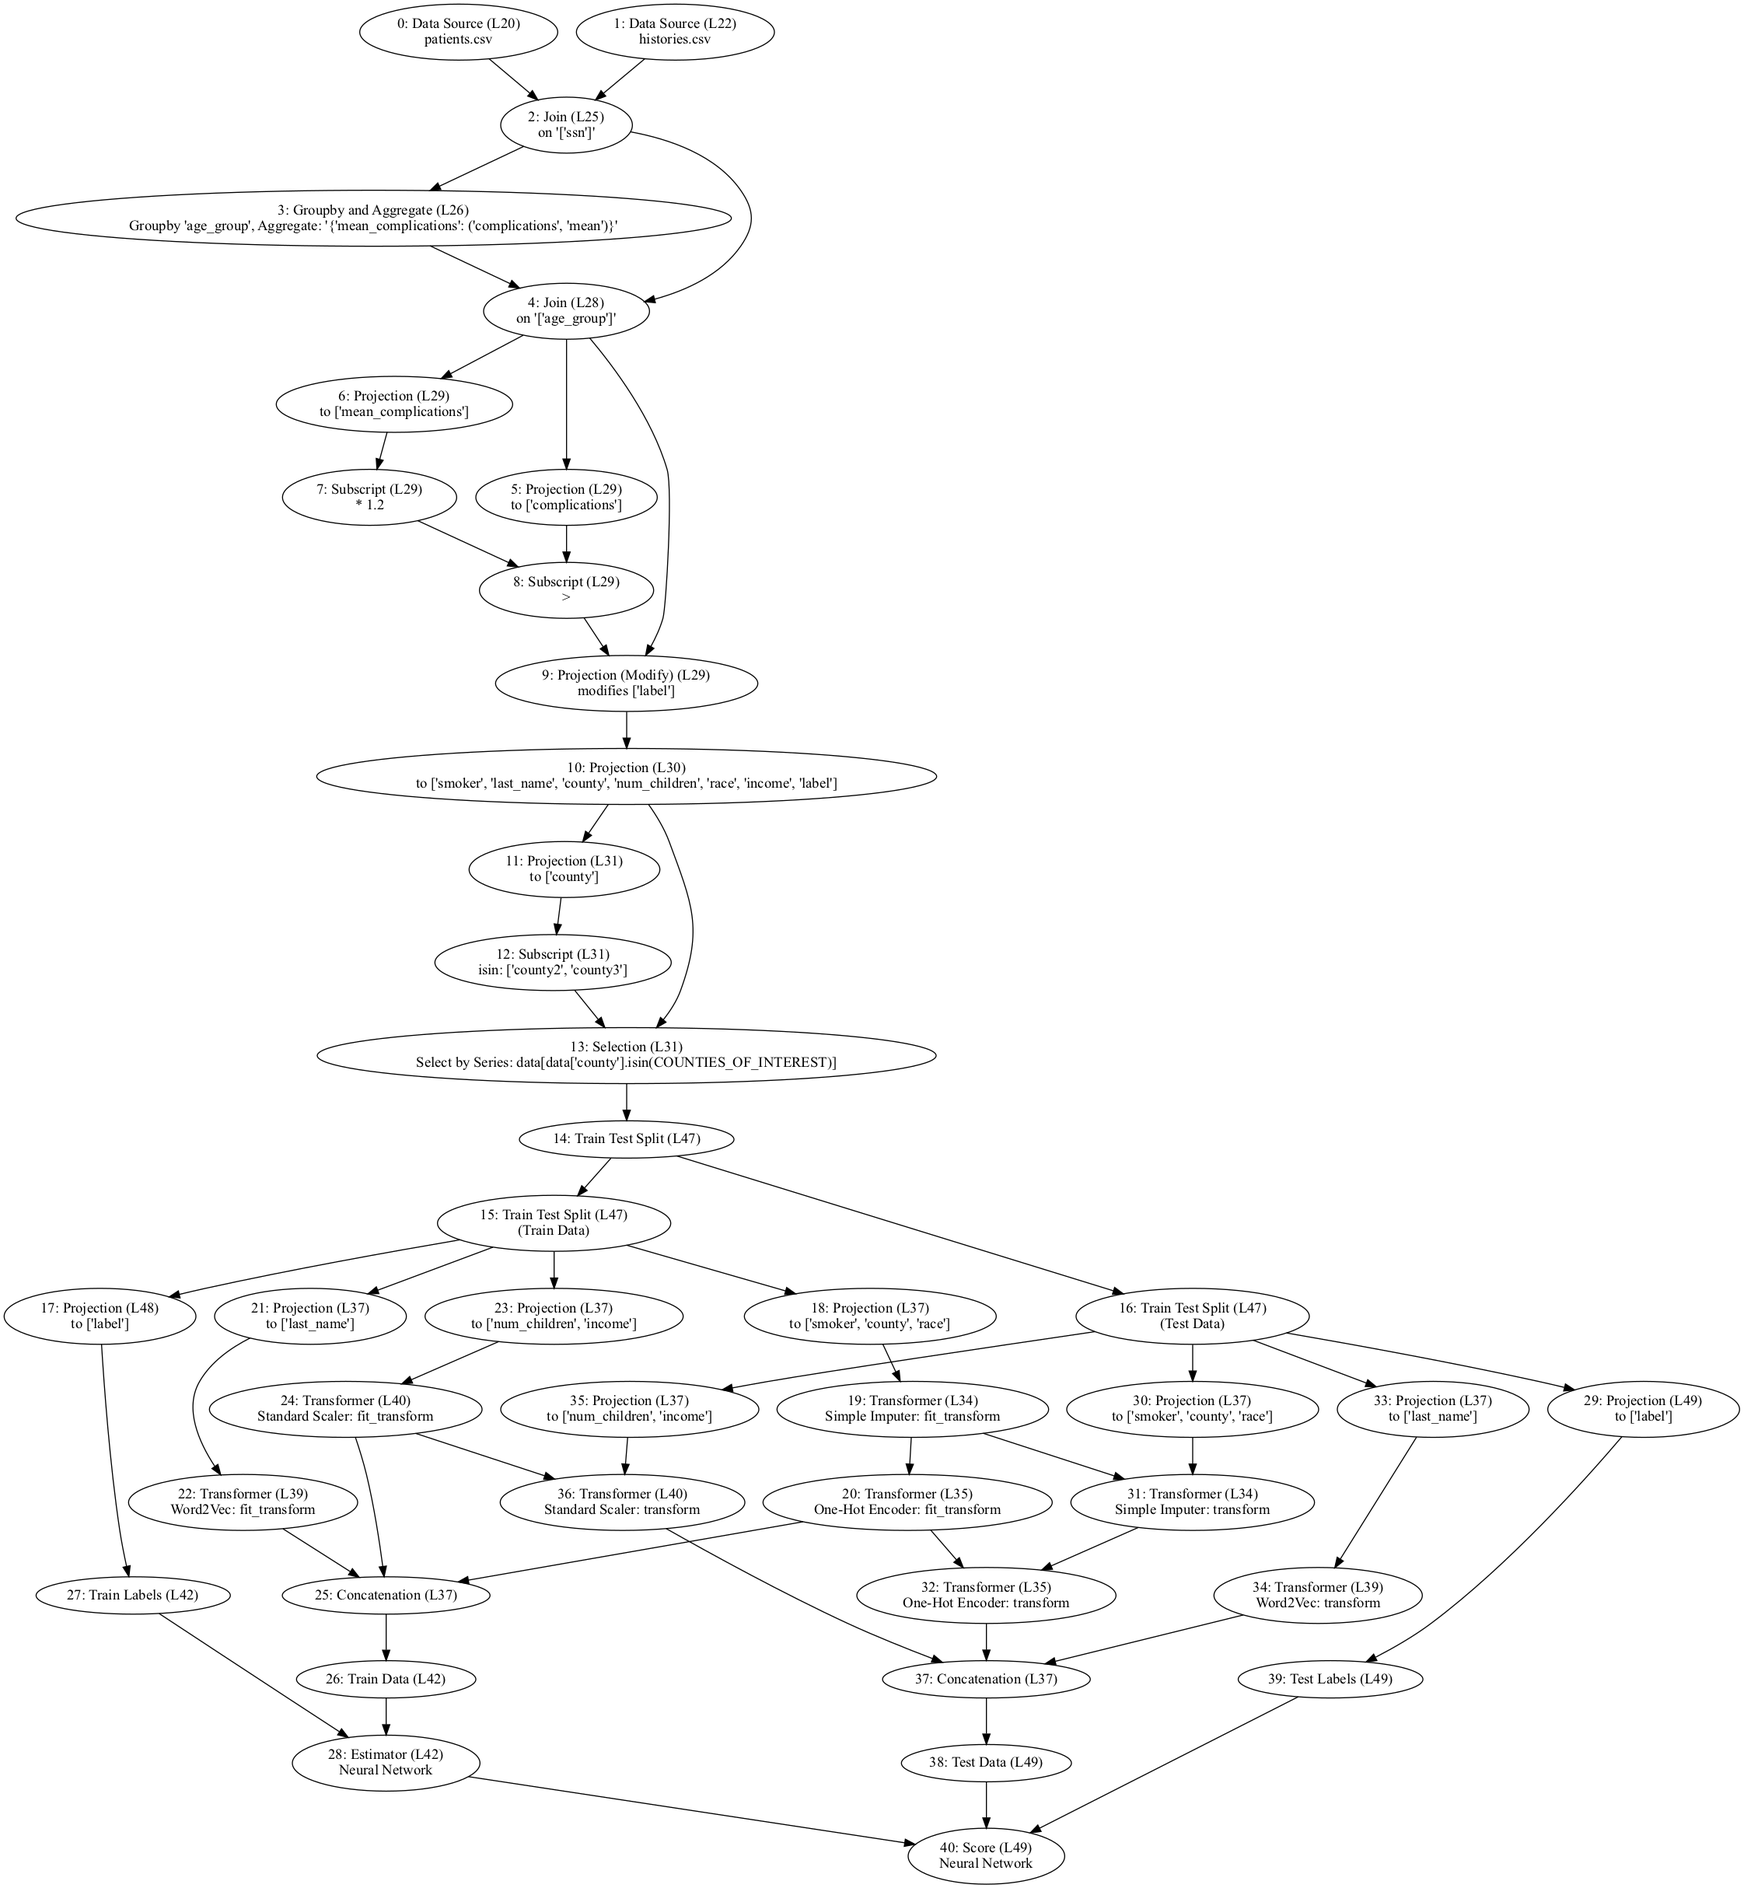
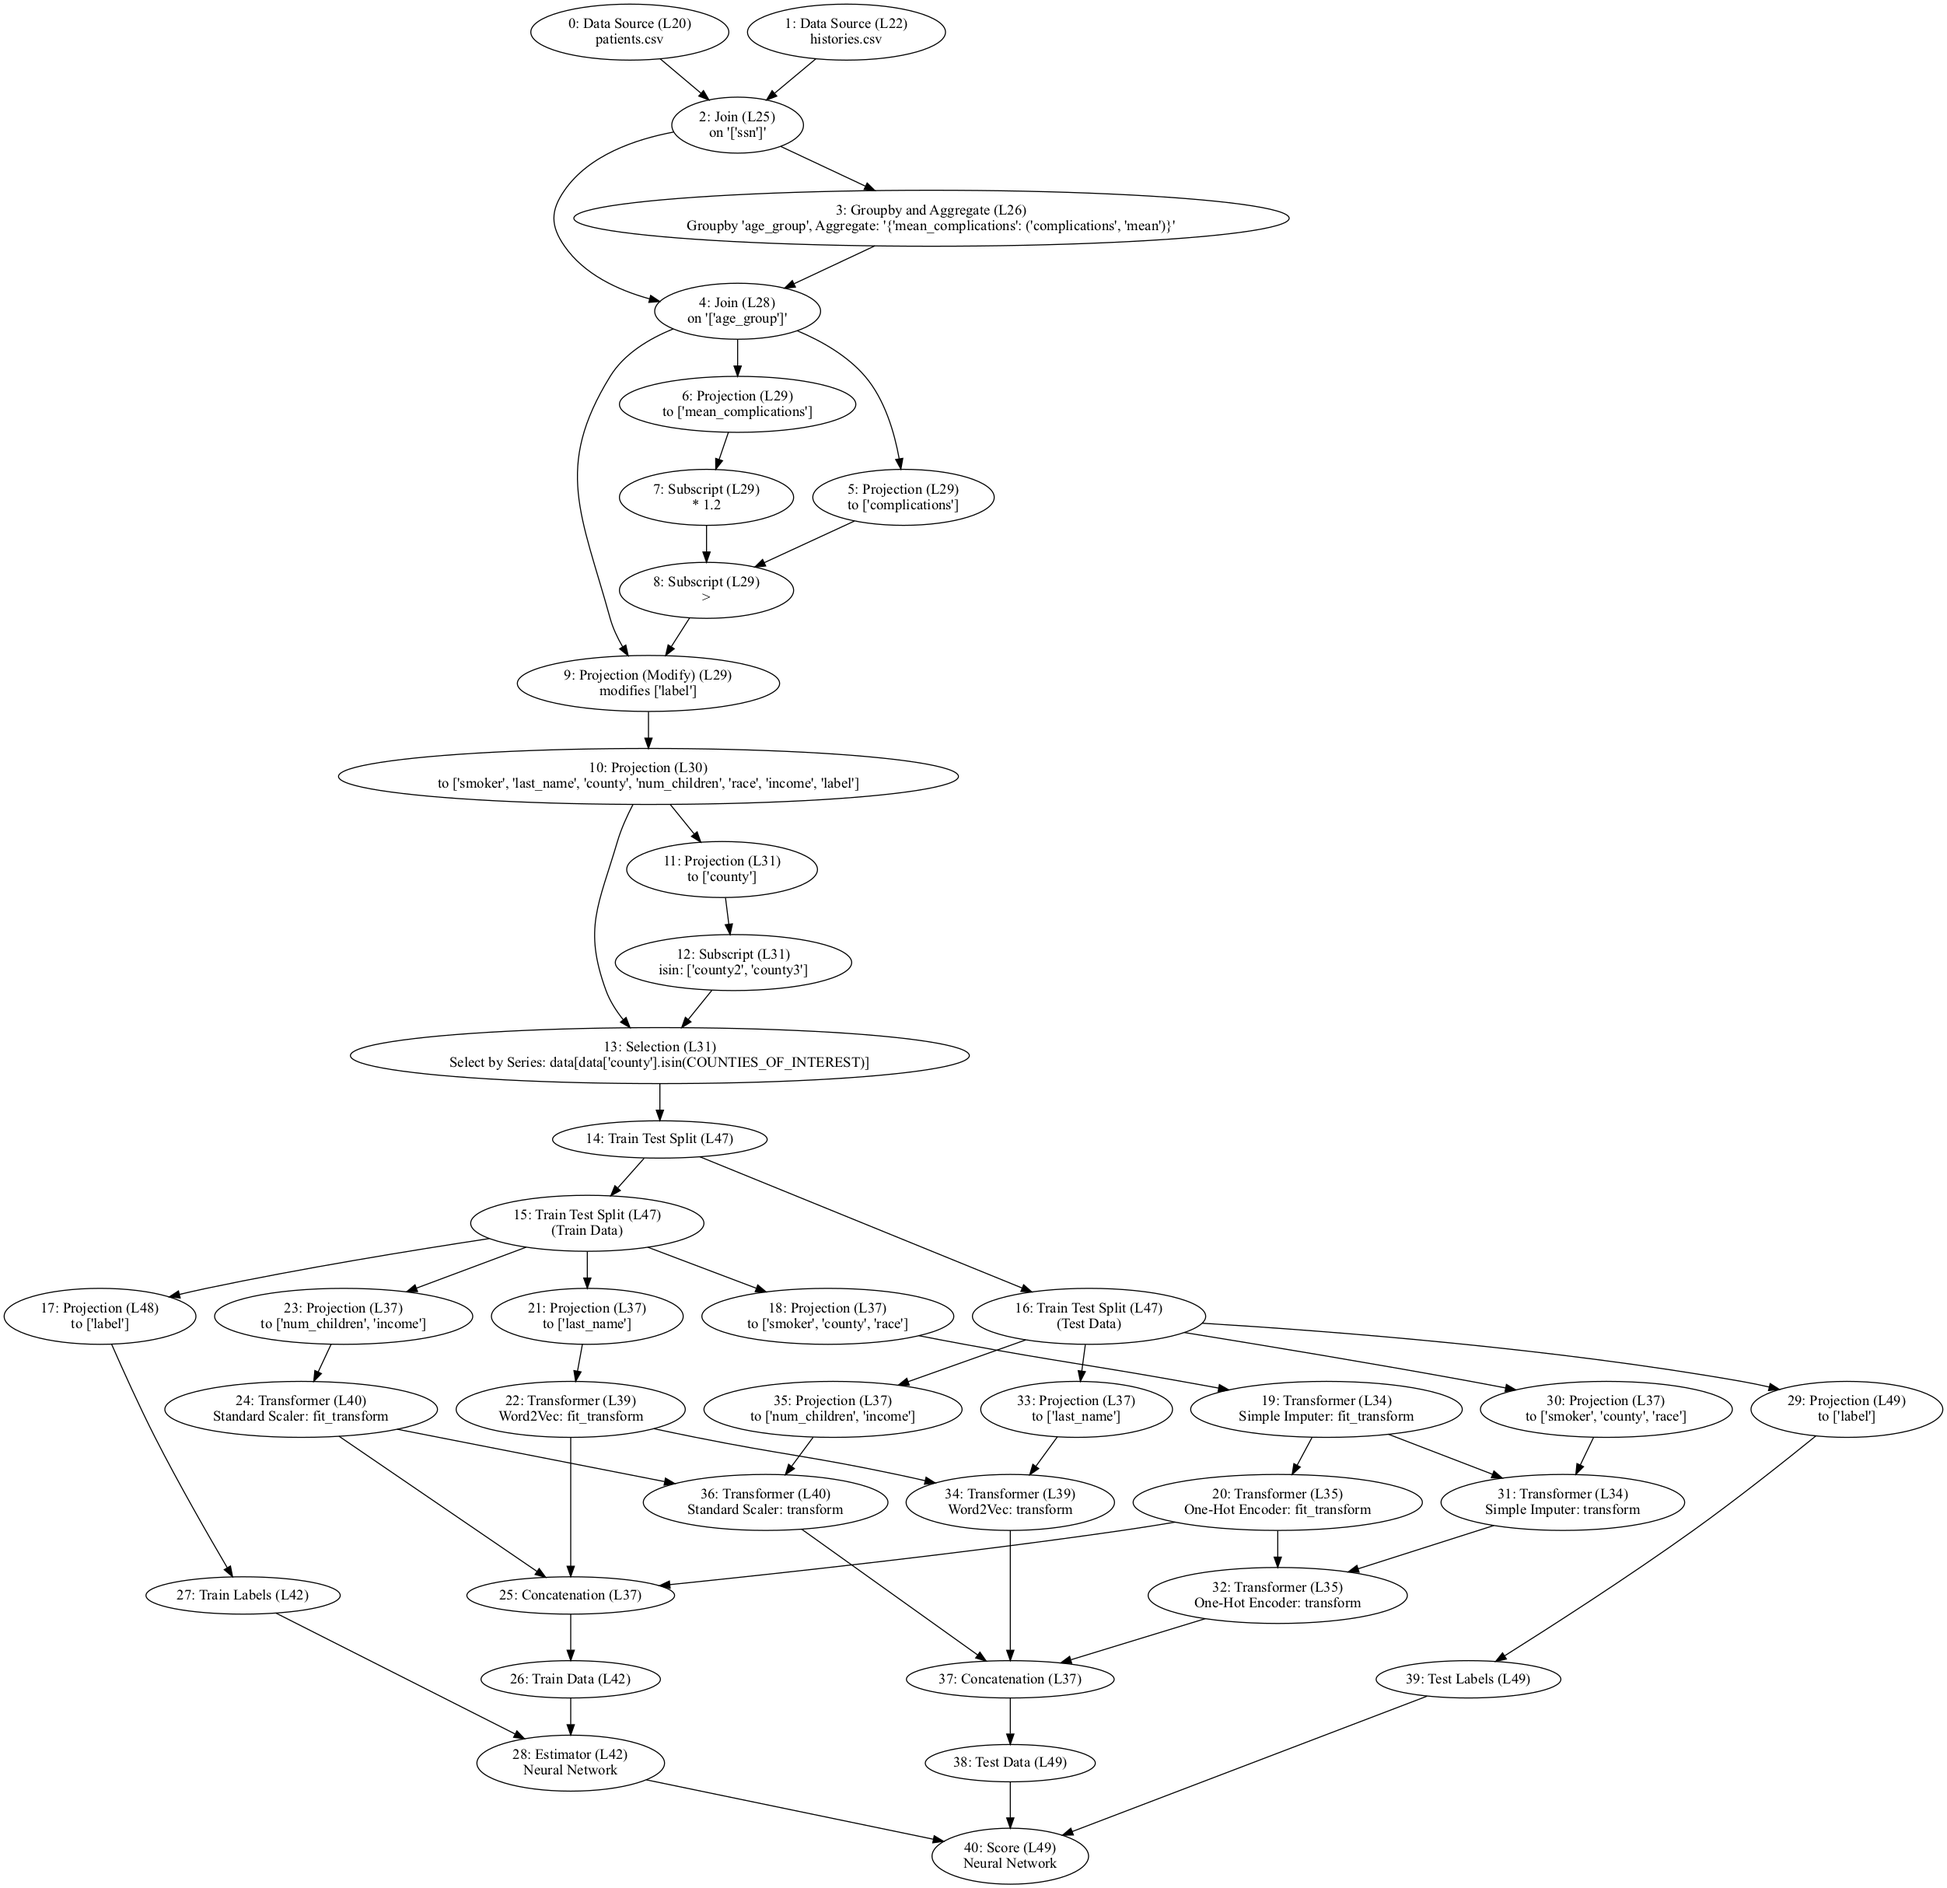
Healthcare pipeline exec works

diff --git a/test/example_pipelines/test_patch_healthcare_utils.py b/test/example_pipelines/test_patch_healthcare_utils.py
@@ -44,16 +44,16 @@ def test_my_word_to_vec_transformer():
                                    OptionalCodeInfo(CodeReference(5, 5, 5, 62),
                                                     "pd.DataFrame({'A': ['cat_a', 'cat_b', 'cat_a', 'cat_c']})"),
                                    Comparison(partial))
-    expected_estimator = DagNode(1,
-                                 BasicCodeLocation("<string-source>", 6),
-                                 OperatorContext(OperatorType.TRANSFORMER,
-                                                 FunctionInfo('example_pipelines.healthcare.healthcare_utils',
-                                                              'MyW2VTransformer')),
-                                 DagNodeDetails('Word2Vec: fit_transform', ['array']),
-                                 OptionalCodeInfo(CodeReference(6, 14, 6, 62),
-                                                  'MyW2VTransformer(min_count=2, size=2, workers=1)'),
-                                 Comparison(FunctionType))
-    expected_dag.add_edge(expected_data_source, expected_estimator, arg_index=0)
+    expected_transformer = DagNode(1,
+                                   BasicCodeLocation("<string-source>", 6),
+                                   OperatorContext(OperatorType.TRANSFORMER,
+                                                   FunctionInfo('example_pipelines.healthcare.healthcare_utils',
+                                                                'MyW2VTransformer')),
+                                   DagNodeDetails('Word2Vec: fit_transform', ['array']),
+                                   OptionalCodeInfo(CodeReference(6, 14, 6, 62),
+                                                    'MyW2VTransformer(min_count=2, size=2, workers=1)'),
+                                   Comparison(FunctionType))
+    expected_dag.add_edge(expected_data_source, expected_transformer, arg_index=0)
     expected_data_source_two = DagNode(2,
                                        BasicCodeLocation("<string-source>", 9),
                                        OperatorContext(OperatorType.DATA_SOURCE,
@@ -62,16 +62,17 @@ def test_my_word_to_vec_transformer():
                                        OptionalCodeInfo(CodeReference(9, 10, 9, 67),
                                                         "pd.DataFrame({'A': ['cat_a', 'cat_b', 'cat_a', 'cat_c']})"),
                                        Comparison(partial))
-    expected_estimator_two = DagNode(3,
-                                     BasicCodeLocation("<string-source>", 6),
-                                     OperatorContext(OperatorType.TRANSFORMER,
-                                                     FunctionInfo('example_pipelines.healthcare.healthcare_utils',
-                                                                  'MyW2VTransformer')),
-                                     DagNodeDetails('Word2Vec: transform', ['array']),
-                                     OptionalCodeInfo(CodeReference(6, 14, 6, 62),
-                                                      'MyW2VTransformer(min_count=2, size=2, workers=1)'),
-                                     Comparison(FunctionType))
-    expected_dag.add_edge(expected_data_source_two, expected_estimator_two, arg_index=0)
+    expected_transformer_two = DagNode(3,
+                                       BasicCodeLocation("<string-source>", 6),
+                                       OperatorContext(OperatorType.TRANSFORMER,
+                                                       FunctionInfo('example_pipelines.healthcare.healthcare_utils',
+                                                                    'MyW2VTransformer')),
+                                       DagNodeDetails('Word2Vec: transform', ['array']),
+                                       OptionalCodeInfo(CodeReference(6, 14, 6, 62),
+                                                        'MyW2VTransformer(min_count=2, size=2, workers=1)'),
+                                       Comparison(FunctionType))
+    expected_dag.add_edge(expected_transformer, expected_transformer_two, arg_index=0)
+    expected_dag.add_edge(expected_data_source_two, expected_transformer_two, arg_index=1)
     compare(networkx.to_dict_of_dicts(inspector_result.dag), networkx.to_dict_of_dicts(expected_dag))
 
     fit_transform_node = list(inspector_result.dag.nodes)[1]

diff --git a/mlwhatif/monkeypatching/_patch_pandas.py b/mlwhatif/monkeypatching/_patch_pandas.py
@@ -198,9 +198,9 @@ class DataFramePatching:
                                                   optional_source_code)
                 dag_node_parents.append(input_info_other.dag_node)
 
-                def processing_func(df, new_val):
-                    original(df, args[0], new_val, *args[2:], **kwargs)
-                    return df
+                def processing_func(pandas_df, new_val):
+                    original(pandas_df, args[0], new_val, *args[2:], **kwargs)
+                    return pandas_df
             else:
                 processing_func = lambda df: original(df, *args, **kwargs)
             if isinstance(args[0], str):

diff --git a/test/execution/test_dag_executor.py b/test/execution/test_dag_executor.py
@@ -36,7 +36,6 @@ def test_healthcare_dag_execution():
     """
     extracted_dag = _pipeline_executor.singleton.run(python_path=HEALTHCARE_PY, track_code_references=True,
                                                      custom_monkey_patching=[healthcare_patching]).dag
-    final_pipeline_result = DagExecutor().execute(extracted_dag)
+    final_pipeline_result_score = DagExecutor().execute(extracted_dag)
 
-    df_expected = pd.DataFrame([0, 2, 4, 5.], columns=['A'])
-    pd.testing.assert_frame_equal(final_pipeline_result, df_expected)
+    assert isinstance(final_pipeline_result_score, float) and 0. <= final_pipeline_result_score <= 1.

diff --git a/mlwhatif/monkeypatching/_patch_sklearn.py b/mlwhatif/monkeypatching/_patch_sklearn.py
@@ -1396,6 +1396,7 @@ class SklearnKerasClassifierPatching:
 
         _, train_data_dag_node, train_data_result = add_train_data_node(self, args[0], function_info)
         _, train_labels_dag_node, train_labels_result = add_train_label_node(self, args[1], function_info)
+        self.mlinspect_non_data_func_args.update(self.sk_params)  # pylint: disable=no-member
 
         def processing_func(train_data, train_labels):
             estimator = tensorflow.keras.wrappers.scikit_learn.KerasClassifier(**self.mlinspect_non_data_func_args)
